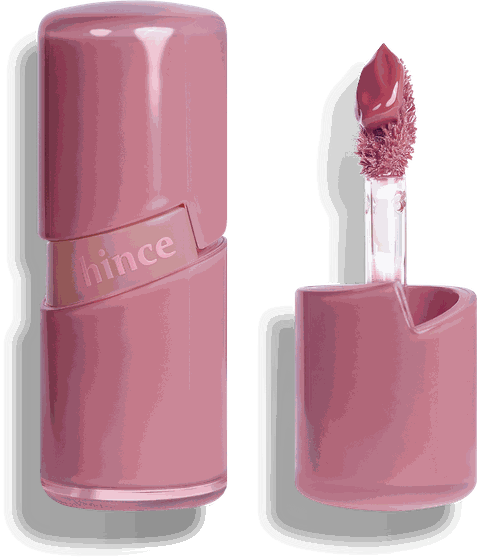
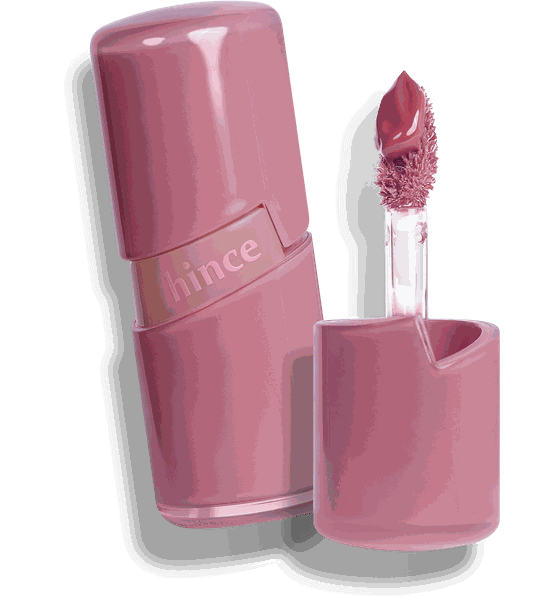
v2.8.8: Raw Glow Mini shown as one tube (cap leaning on the open tint), flashing through R002/R006/R015 on the result card
Note reads '1 cây · màu ngẫu nhiên' so it does not look like three gifts.

diff --git a/js/app.js b/js/app.js
@@ -65,8 +65,21 @@
   function giftName(k) { var s = App.settings, e = en() && s.giftsEn && s.giftsEn[k]; return e || (s.gifts && s.gifts[k]) || window.DEFAULTS.gifts[k] || ''; }
   function lipGift(k) { return k === 'full'; } // Nu Blur Tint: the shade is random (note under the name)
   // v2.8.7 Raw Glow Gel Tint Mini: the result card lists the 3 shades; the receipt names the one picked at random
-  function giftNote(k) { return lipGift(k) ? T('gift.shadeRandom') : k === 'mini' ? T('gift.shadeOf', { s: window.DEFAULTS.miniShades.map(function (x) { return x.split(' ')[0]; }).join(' · ') }) : ''; }
+  function giftNote(k) { return lipGift(k) ? T('gift.shadeRandom') : k === 'mini' ? T('gift.shadeOf') : ''; } // the photo flashes through the shades
   function pickShade(k) { var a = window.DEFAULTS.miniShades; return k === 'mini' ? a[Math.floor(Math.random() * a.length)] : ''; }
+  // v2.8.7 result card for the Mini: one tube that flashes through the 3 shades (R002 → R006 → R015 …) until the screen changes
+  var cyc = 0;
+  function cycleShades(k) {
+    clearInterval(cyc); var ph = document.querySelector('#s-result .rg-ph'); ph.classList.remove('blink');
+    if (k !== 'mini') return;
+    var a = window.DEFAULTS.miniShades, i = 0;
+    $('rg-img').src = ASSETS.gift(k, a[0]);
+    cyc = setInterval(function () {
+      if (App.screen !== 'result') { clearInterval(cyc); return; }
+      i = (i + 1) % a.length; $('rg-img').src = ASSETS.gift(k, a[i]);
+      ph.classList.remove('blink'); void ph.offsetWidth; ph.classList.add('blink');
+    }, 700);
+  }
   function shadeName(k, sh) { return giftName(k) + (sh ? ' · ' + sh : ''); }
   // phone: VN format exactly as before, or international '+' followed by 8–15 digits; duplicates compare digits only with +84 → 0
   function validPhoneAny(p) { return Logic.validPhone(p) || /^\+\d{8,15}$/.test(p); }
@@ -306,6 +319,7 @@
     // gift polaroid (filled now, revealed when the count lands)
     if (k) {
       $('rg-img').src = ASSETS.gift(k);
+      cycleShades(k);
       $('rg-name').textContent = giftName(k);
       $('rg-note').textContent = giftNote(k);
       $('rg-stamp').textContent = T('result.win');

diff --git a/js/i18n.js b/js/i18n.js
@@ -34,7 +34,7 @@
     'idle.q': 'Bạn còn ở đây không?',
     // v2.7 gift reveal, 3 gift tiers, event stock
     'result.win': 'TRÚNG QUÀ!', 'result.tickMid': '{n}\nMINI', 'result.tickHigh': '{n}\nFULL-SIZE', 'result.askStaff': 'Vui lòng liên hệ nhân viên',
-    'result.downgrade': 'Quà mức cao đã hết – bạn nhận món quà này nhé', 'gift.shadeRandom': '*Màu son ngẫu nhiên', 'gift.shadeOf': '*Màu ngẫu nhiên: {s}', 'gift.shade': 'Màu: {s}',
+    'result.downgrade': 'Quà mức cao đã hết – bạn nhận món quà này nhé', 'gift.shadeRandom': '*Màu son ngẫu nhiên', 'gift.shadeOf': '*1 cây · màu ngẫu nhiên', 'gift.shade': 'Màu: {s}',
     'reward.row.gift': 'QUÀ CỦA BẠN', 'form.eyebrow': 'QUÀ · {gift}',
     'cc.stockLeft': 'còn', 'cc.given': 'đã phát: hôm nay {d} · tổng {e}', 'cc.giftLbl.mirror': 'Heart Mirror',
     'cc.giftLbl.mini': 'Raw Glow Mini', 'cc.giftLbl.full': 'Nu Blur Tint', 'cc.stockHead': 'KHO QUÀ CẢ SỰ KIỆN · KHÔNG TỰ NẠP LẠI',
@@ -111,7 +111,7 @@
     'thanks.back': 'Back to start in {s}s', 'thanks.home': 'BACK TO START',
     'idle.q': 'Still there?',
     'result.win': 'YOU WIN!', 'result.tickMid': '{n}\nMINI', 'result.tickHigh': '{n}\nFULL-SIZE', 'result.askStaff': 'Please ask our staff',
-    'result.downgrade': 'The higher gift is out of stock, so this one is yours', 'gift.shadeRandom': '*Shade is random', 'gift.shadeOf': '*Random shade: {s}', 'gift.shade': 'Shade: {s}',
+    'result.downgrade': 'The higher gift is out of stock, so this one is yours', 'gift.shadeRandom': '*Shade is random', 'gift.shadeOf': '*1 tint · random shade', 'gift.shade': 'Shade: {s}',
     'reward.row.gift': 'YOUR GIFT', 'form.eyebrow': 'GIFT · {gift}',
     'cc.stockLeft': 'left', 'cc.given': 'given: today {d} · total {e}', 'cc.giftLbl.mirror': 'Heart Mirror',
     'cc.giftLbl.mini': 'Raw Glow Mini', 'cc.giftLbl.full': 'Nu Blur Tint', 'cc.stockHead': 'EVENT GIFT STOCK · NO DAILY REFILL',

diff --git a/css/style.css b/css/style.css
@@ -555,6 +555,10 @@ input, textarea { -webkit-user-select: text; user-select: text; touch-action: ma
 #s-result .rg-ph { position: relative; height: 360px; border-radius: 3px; overflow: hidden; background: radial-gradient(ellipse at 50% 42%, #FFFBF9 0%, #F8E9E6 62%, #EFD9D6 100%); }
 #s-result .rg-ph img { position: absolute; left: 6%; top: 6%; width: 88%; height: 88%; object-fit: contain; filter: drop-shadow(0 16px 14px rgba(74,47,51,.22)); }
 #s-result.rev .rg-ph img { animation: rgPop .56s cubic-bezier(.3,1.5,.5,1) .38s both; }
+/* v2.8.7 Mini shade swap: a short soft flash over the photo each time the shade changes */
+#s-result .rg-ph::after { content: ''; position: absolute; inset: 0; pointer-events: none; opacity: 0; background: radial-gradient(ellipse at 50% 45%, rgba(255,255,255,.85) 0%, rgba(255,255,255,0) 70%); }
+#s-result .rg-ph.blink::after { animation: rgBlink .32s ease-out; }
+@keyframes rgBlink { 0% { opacity: .9; } 100% { opacity: 0; } }
 @keyframes rgPop { 0% { opacity: 0; transform: scale(.6); } 55% { opacity: 1; transform: scale(1.06); } 100% { opacity: 1; transform: scale(1); } }
 #s-result .rg-shine { position: absolute; top: -20%; left: 0; width: 38%; height: 140%; opacity: 0; transform: translateX(-160%) skewX(-18deg);
   background: linear-gradient(90deg, rgba(255,255,255,0) 0%, rgba(255,255,255,.8) 50%, rgba(255,255,255,0) 100%); }

diff --git a/js/config.js b/js/config.js
@@ -1,6 +1,6 @@
 /* hince LED Game — default settings. Most values can be changed in Admin (saved on the device). */
 window.DEFAULTS = {
-  appVersion: '2.8.7',
+  appVersion: '2.8.8',
   adminPin: '2026',
 
   // v2.7: every game shows a score 0–100 (Logic.score100); one pair of thresholds for all games (Control Center):

diff --git a/sw.js b/sw.js
@@ -1,5 +1,5 @@
 /* Offline cache for hosted mode (https). Bump VERSION when files change. */
-var VERSION = 'hince-led-v2.8.7';
+var VERSION = 'hince-led-v2.8.8';
 var FILES = ['./',
   './index.html',
   './manifest.webmanifest',
